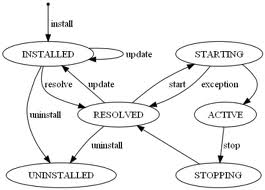
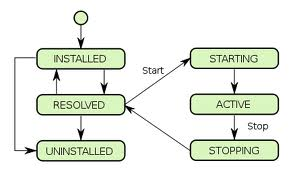
slides update

diff --git a/slides/osgi-intro/index.html b/slides/osgi-intro/index.html
@@ -106,30 +106,33 @@
                     </section>
                 </section>
                 <section>
-                    <section>
-                        <h1>Vantagens OSGi</h1> 
-                        <ul>
-                            <li>
-                                Classpath extendido
-                            </li>
-                            <li>
-                                Serviços dinâmicos("Hotplugability")
-                            </li>
-                            <li>
-                                Versionamento
-                            </li>
-                            <li>
-                                Dependencias explícitas("clear boundaries")
-                            </li>
-                        </ul>
-                    </section>
+                    <h1>Vantagens OSGi</h1> 
+                    <ul>
+                        <li>
+                            Classpath extendido
+                        </li>
+                        <li>
+                            Serviços dinâmicos("Hotplugability")
+                        </li>
+                        <li>
+                            Versionamento
+                        </li>
+                        <li>
+                            Dependencias explícitas("clear boundaries")
+                        </li>
+                    </ul>
+                </section>
+                <section>
                     <section>
                         <h2>Standard Class Loading</h2>
                         <p><img src="images/tomcat.png"/> </p>
                     </section>
                     <section>
                         <h2>OSGi class loading</h2>
-                        <p>carregamento de classes baseado em um grafo de módulos versionados</p>
+                        <p><img src="images/classloading.png"/></p>
+                    </section>  
+                    <section>
+                        <h2>OSGi class loading</h2>
                         <ul>
                             <li class='fragment roll-in'>cada módulo tem seu próprio classpath...</li>
                             <li class='fragment roll-in'>diversas versões de um mesmo bundle podem ser carregados na mesma JVM...</li>
@@ -141,6 +144,36 @@
                         </ul>   
                     </section>
                 </section>
+                <section>
+                    <section>
+                        <h1>Módulo OSGi</h1>
+                        <p>Um módulo OSGi ou simplesmente <b>Bundle</b> é um Java archive(.jar) com meta-dados que apenas o OSGi entende</p>
+                        <p><img height="300" width="400" src="images/bundle.png"/></p>
+                    </section>
+                    <section>
+                        <h2>Anatomia de um Bundle</h2>
+                         <p>MANIFEST.MF</p>
+                        <pre>
+                            <code data-trim>
+            Bundle-Name: Hello World
+            Bundle-SymbolicName: org.wikipedia.helloworld
+            Bundle-Description: A Hello World bundle
+            Bundle-ManifestVersion: 2
+            Bundle-Version: 1.0.0
+            Bundle-Activator: org.wikipedia.Activator
+            Export-Package: org.wikipedia.helloworld;version="1.0.0"
+            Import-Package: org.osgi.framework;version="1.3.0"    
+                            
+                            </code>
+                        </pre>       
+                       
+                    </section>
+                       <section>
+                           <h2>Ciclo de vida de um Bundle</h2>
+                           <p><img height="400" width="500" src="images/lifecycle.jpg"/></p>
+                       </section>     
+                </section>
+
                 <section>
                     <h1>Referências</h1>
 
